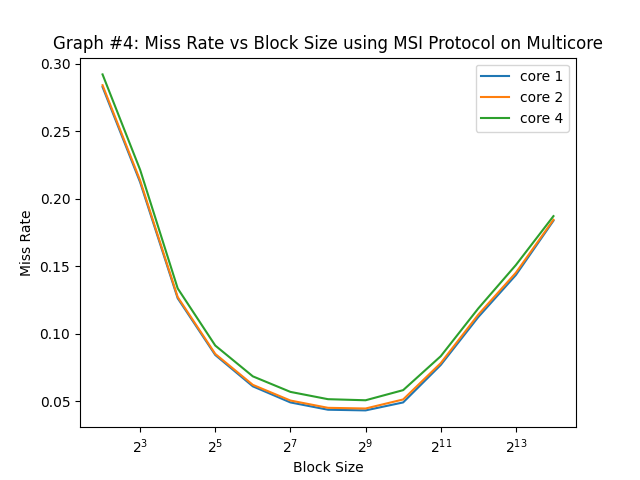
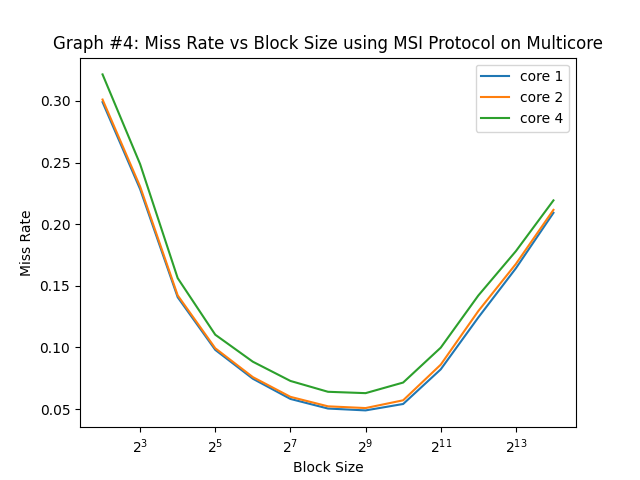
fix graph 4

diff --git a/p5release/cache.c b/p5release/cache.c
@@ -163,15 +163,15 @@ bool local_load_store(cache_t *cache, unsigned long tag, unsigned long index, en
       cache->lines[index][cache->lru_way[index]].dirty_f = true;
       // valid data at here
       // If in MSI protocol, a store occurs on the local cache, its state becomes MODIFIED
-      if (cache->protocol == MSI){
-        cache->lines[index][cache->lru_way[index]].state = MODIFIED;
+      if (cache->protocol == MSI) {
+        cache->lines[index][cursor].state = MODIFIED;
       }
       else {
-        cache->lines[index][cache->lru_way[index]].state = VALID;
+        cache->lines[index][cursor].state = VALID;
       }
 
       // update lru
-      int res = (cache->lru_way[index] + 1) % cache->assoc; 
+      int res = (cursor + 1) % cache->assoc; 
       cache->lru_way[index] = res;
   
     }
@@ -221,13 +221,16 @@ bool access_cache(cache_t *cache, unsigned long addr, enum action_t action) {
   // regardless of load or store, if tag match means cache hit
   bool hit = false;
   int cursor = 0; 
-
+  int store_shared = -1;
   // checking for hits
   while(cursor < cache->assoc){
     
-    if(cache->lines[index][cursor].tag == tag && 
-        cache->lines[index][cursor].state != INVALID){
+    if(cache->lines[index][cursor].tag == tag && cache->lines[index][cursor].state != INVALID){
       hit = true;
+      if(action == STORE && cache->lines[index][cursor].state == SHARED){
+        hit = false;
+        store_shared = cursor;
+      }
       break;
     }
     cursor++;
@@ -235,6 +238,9 @@ bool access_cache(cache_t *cache, unsigned long addr, enum action_t action) {
 
   if(!hit){
     cursor = cache->lru_way[index];
+  }
+  if(store_shared != -1){
+    cursor = store_shared;
   }
 
   //running load/store cache action on local thread
